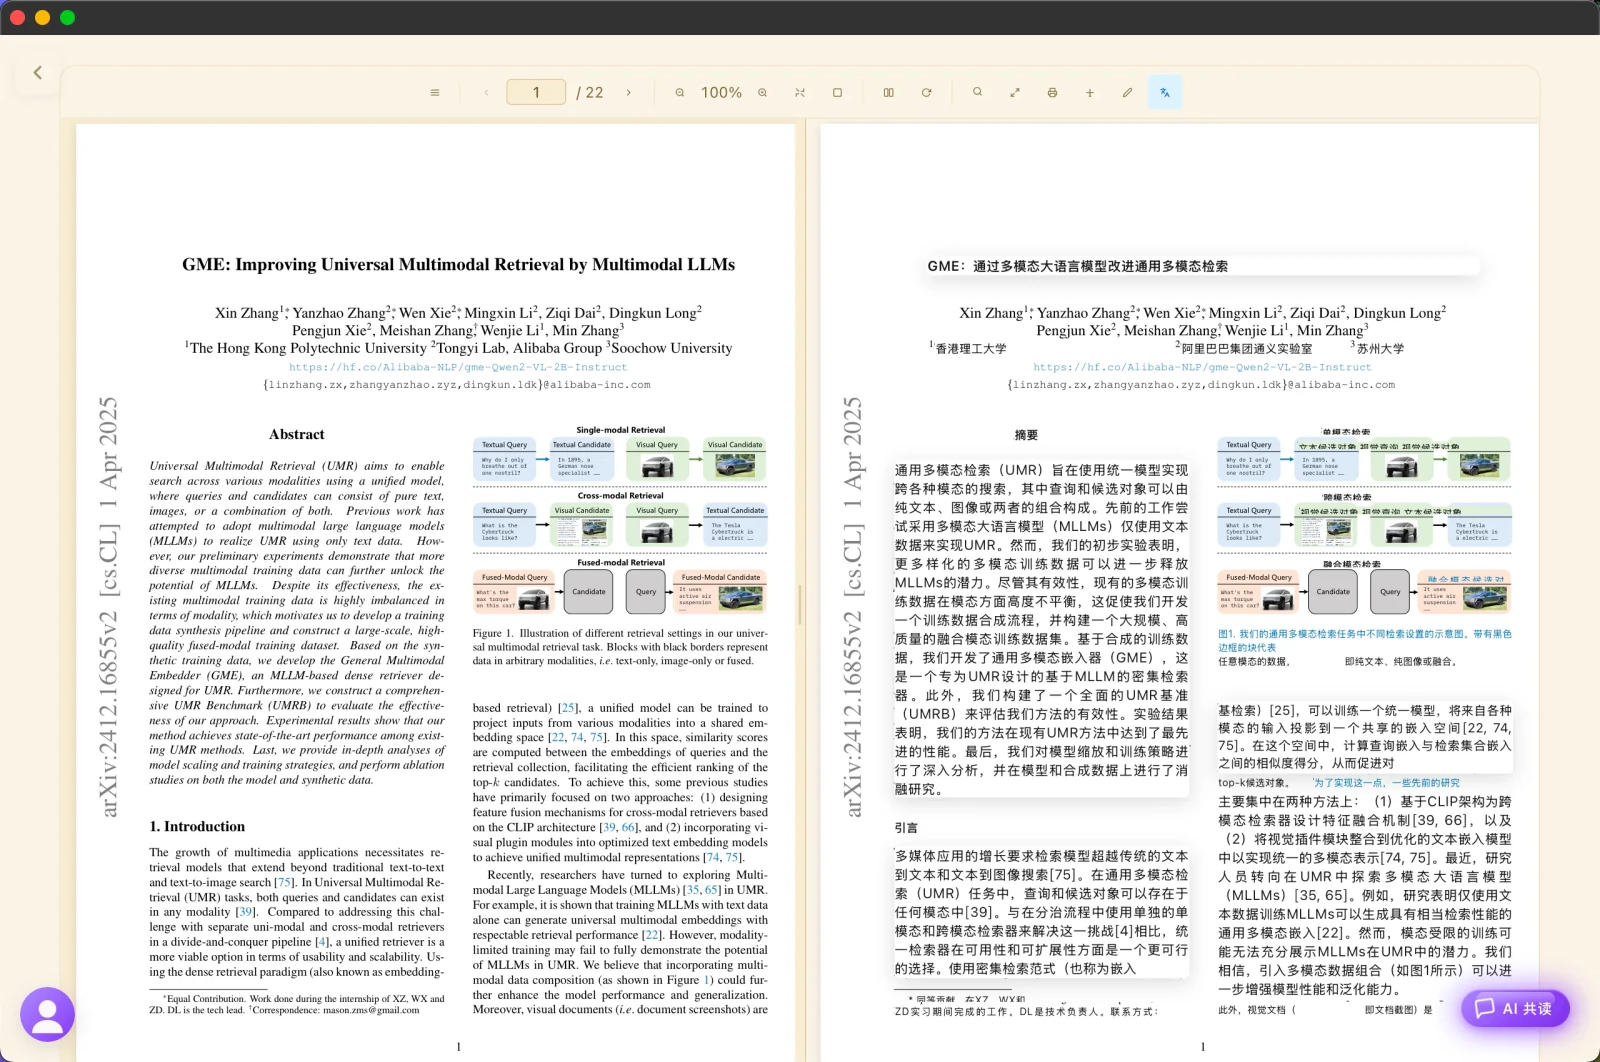
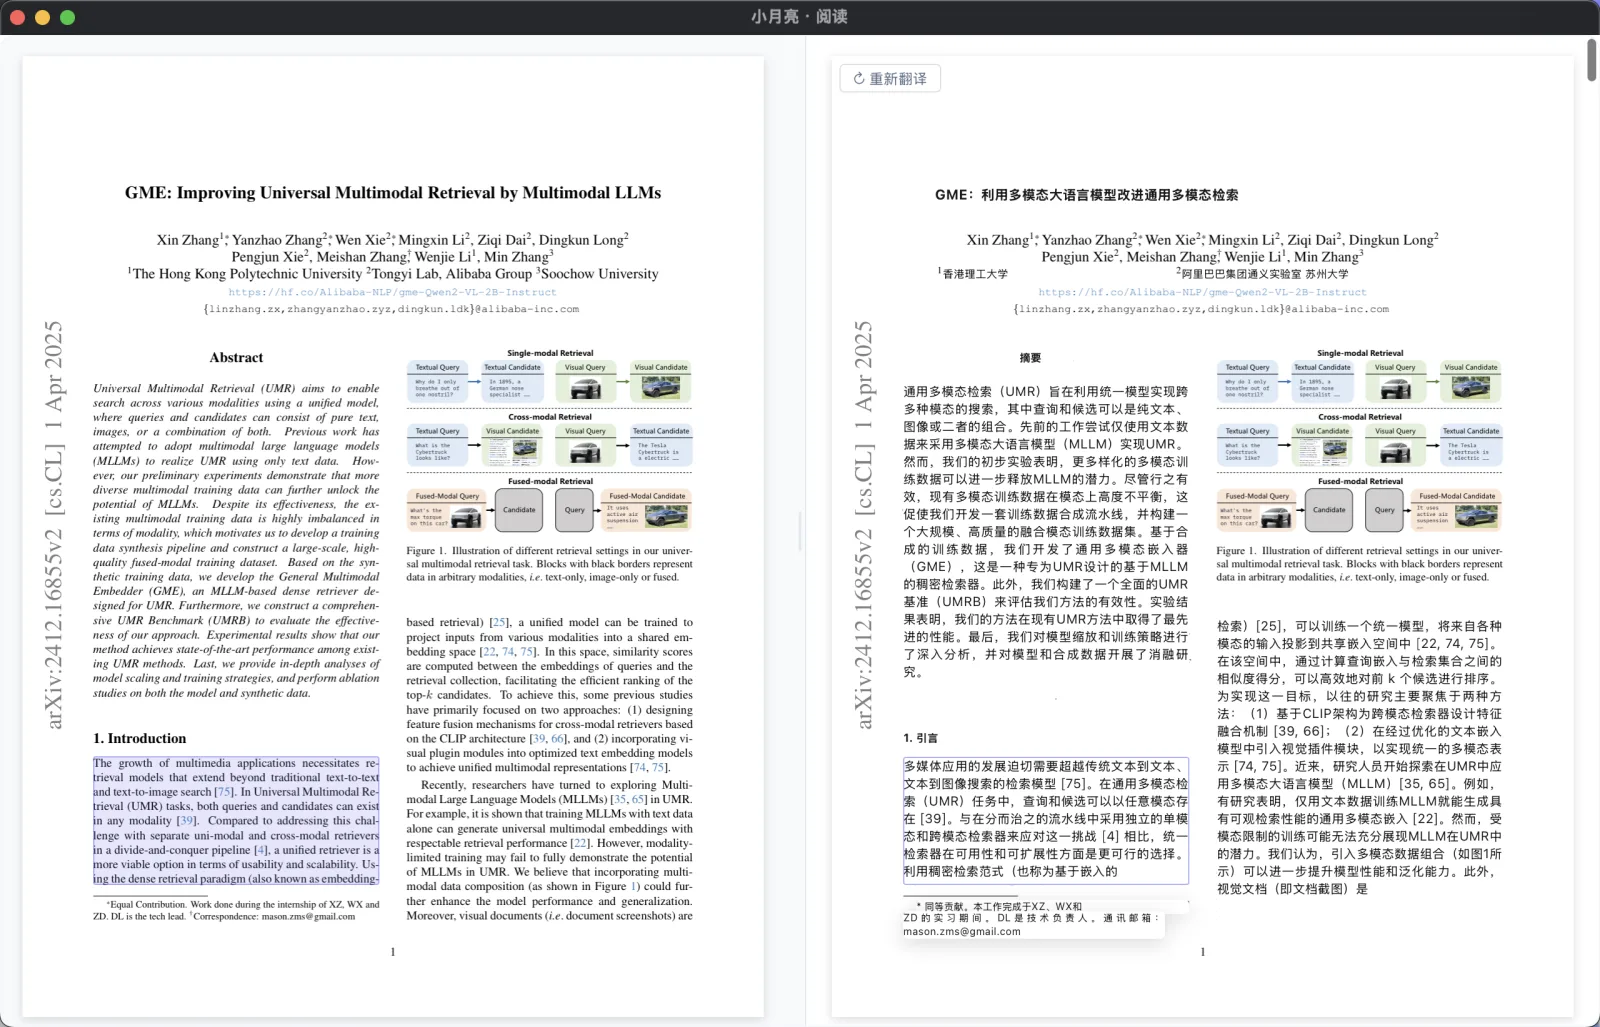
docs(home): 更新双语对照截图至最新界面

diff --git a/index.html b/index.html
@@ -155,7 +155,7 @@
         <div class="show-media" data-tilt>
           <span class="show-index">02</span>
           <div class="show-frame">
-            <img src="assets/shot-bilingual.webp" alt="双语对照阅读" width="1600" height="1062" loading="lazy" />
+            <img src="assets/shot-bilingual.webp" alt="双语对照阅读" width="1600" height="1027" loading="lazy" />
             <span class="show-shine" aria-hidden="true"></span>
           </div>
         </div>
